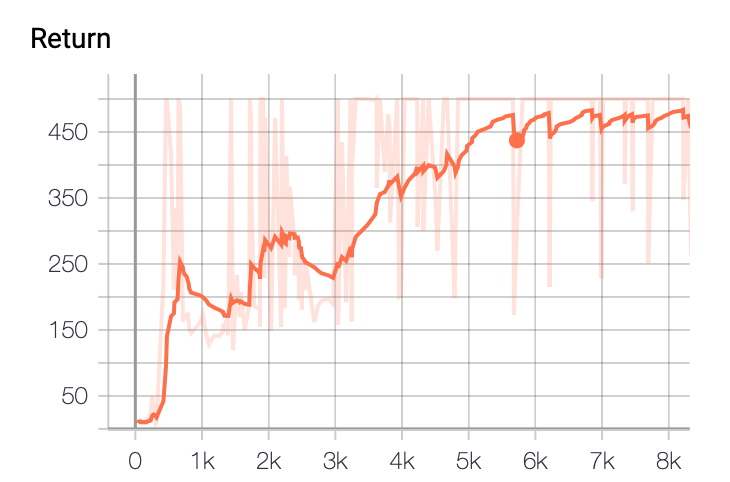
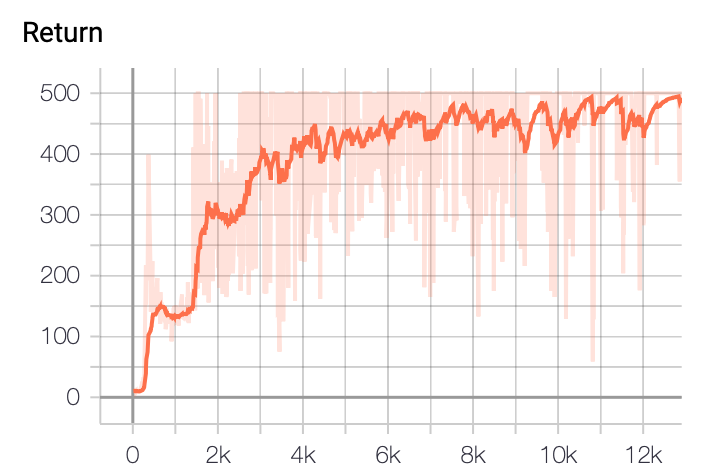
f

diff --git a/dqn/dqn.py b/dqn/dqn.py
@@ -45,13 +45,22 @@ class DQN(nn.Module):
     def __init__(self):
         super(DQN, self).__init__()
         self.fc1 = nn.Linear(4, 256)
+        self.bn1 = nn.BatchNorm1d(256)
+        self.bn1.eval()
         self.fc2 = nn.Linear(256, 2)
         self.epi_num = 0.0
         self.optimizer = torch.optim.Adam(self.parameters(), lr = lr)
 
     def forward(self, obs):
         obs = torch.Tensor(obs)
-        return self.fc2(F.relu(self.fc1(obs)))
+        obs = self.fc1(obs).reshape(-1,256)
+        obs = self.bn1(obs)
+        obs = F.relu(obs)
+        obs = self.fc2(obs)
+        return obs
+#         import pdb
+#         pdb.set_trace()
+#         return self.fc2(F.relu(self.bn1(self.fc1(obs).reshape(-1, 256))))
 
     def get_action(self, phi):
         Q = self.forward(phi)
@@ -71,53 +80,51 @@ class DQN(nn.Module):
             self.optimizer.step()
 
 
-def main(run_num):
+def main():
     # tb = TensorBoardColab()
     writer = SummaryWriter()
-    for z in range(run_num):
-        env = gym.make(env_name)
-        buffer = ReplayMemory()
-        model = DQN()
-        targetQ = DQN()
-        targetQ.load_state_dict(model.state_dict())
-        targetQ.eval()
-        avg_total_reward = 0.0
-        rendering = False
-        for epi in range(num_episodes):
-            obs = env.reset()
-            epi_total_reward = 0.0
-            while True:
-                if rendering: env.render()
-                action = model.get_action(obs)
-                obs_new, rew, done, _ = env.step(action)
-                epi_total_reward += rew
-                buffer.add_memory(obs, action, rew/100.0, obs_new, float(done))
-                if done:
-                    # tb.save_value('Return', 'return', epi, epi_total_reward)
-#                     writer.add_scalar('Return'.format(z), epi_total_reward, epi)
-                    writer.add_scalars('Return', {'run_{}'.format(z): epi_total_reward}, epi)
-                    avg_total_reward += epi_total_reward
-                    model.epi_num += 1
-                    break
-                obs = np.copy(obs_new)
 
-            if len(buffer.memory) > 1000:
-                model.update(buffer, targetQ)
+    env = gym.make(env_name)
+    buffer = ReplayMemory()
+    model = DQN()
+    targetQ = DQN()
+    targetQ.load_state_dict(model.state_dict())
+    targetQ.eval()
+    avg_total_reward = 0.0
+    rendering = False
+    for epi in range(num_episodes):
+        obs = env.reset()
+        epi_total_reward = 0.0
+        while True:
+#                 if rendering: env.render()
+            action = model.get_action(obs)
+            obs_new, rew, done, _ = env.step(action)
+            epi_total_reward += rew
+            buffer.add_memory(obs, action, rew/100.0, obs_new, float(done))
+            if done:
+                # tb.save_value('Return', 'return', epi, epi_total_reward)
+                writer.add_scalar('Return', epi_total_reward, epi)
+#                 writer.add_scalars('Return', {'run_{}'.format(z): epi_total_reward}, epi)
+                avg_total_reward += epi_total_reward
+                model.epi_num += 1
+                break
+            obs = np.copy(obs_new)
 
-            if (epi+1)%update_freq==0:
-                print('Episode: %3d \t Avg Return: %.3f'%(epi+1, avg_total_reward/update_freq))
-                # tb.flush_line('return')
-                if avg_total_reward/update_freq > 350:
-                    rendering = True
-                else:
-                    rendering = False
-                avg_total_reward = 0.0
-                targetQ.load_state_dict(model.state_dict())
-                targetQ.eval()
+        if len(buffer.memory) > 1000:
+            model.update(buffer, targetQ)
 
-        env.close()
-        # tb.close()
+        if (epi+1)%update_freq==0:
+            print('Episode: %3d \t Avg Return: %.3f'%(epi+1, avg_total_reward/update_freq))
+            # tb.flush_line('return')
+            writer.add_scalar('Avg Return over last {} episodes'.format(update_freq), avg_total_reward/update_freq, epi)
+            rendering = True if avg_total_reward/update_freq > 350 else False
+            avg_total_reward = 0.0
+            targetQ.load_state_dict(model.state_dict())
+            targetQ.eval()
+
+    env.close()
+    # tb.close()
     writer.close()
 
 if __name__ == "__main__":
-    main(1)
+    main()
